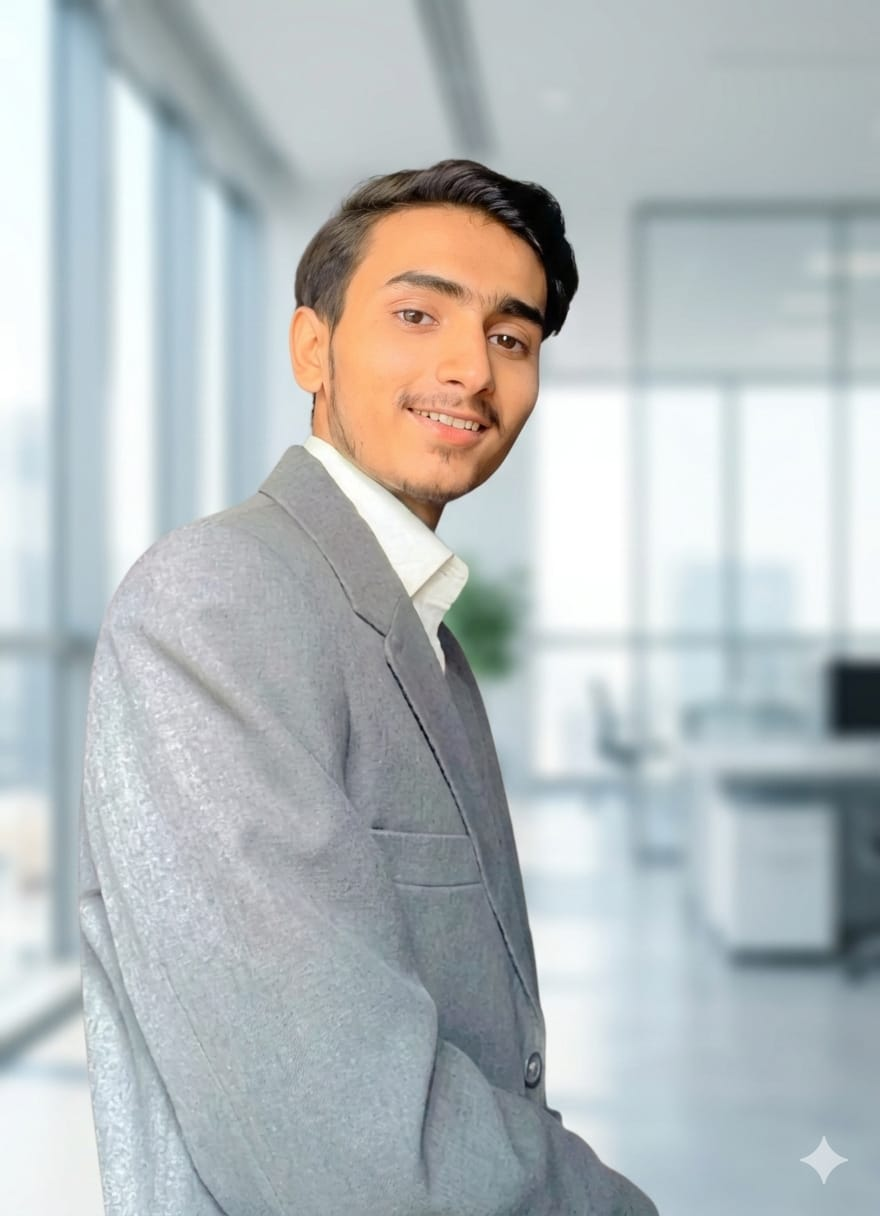
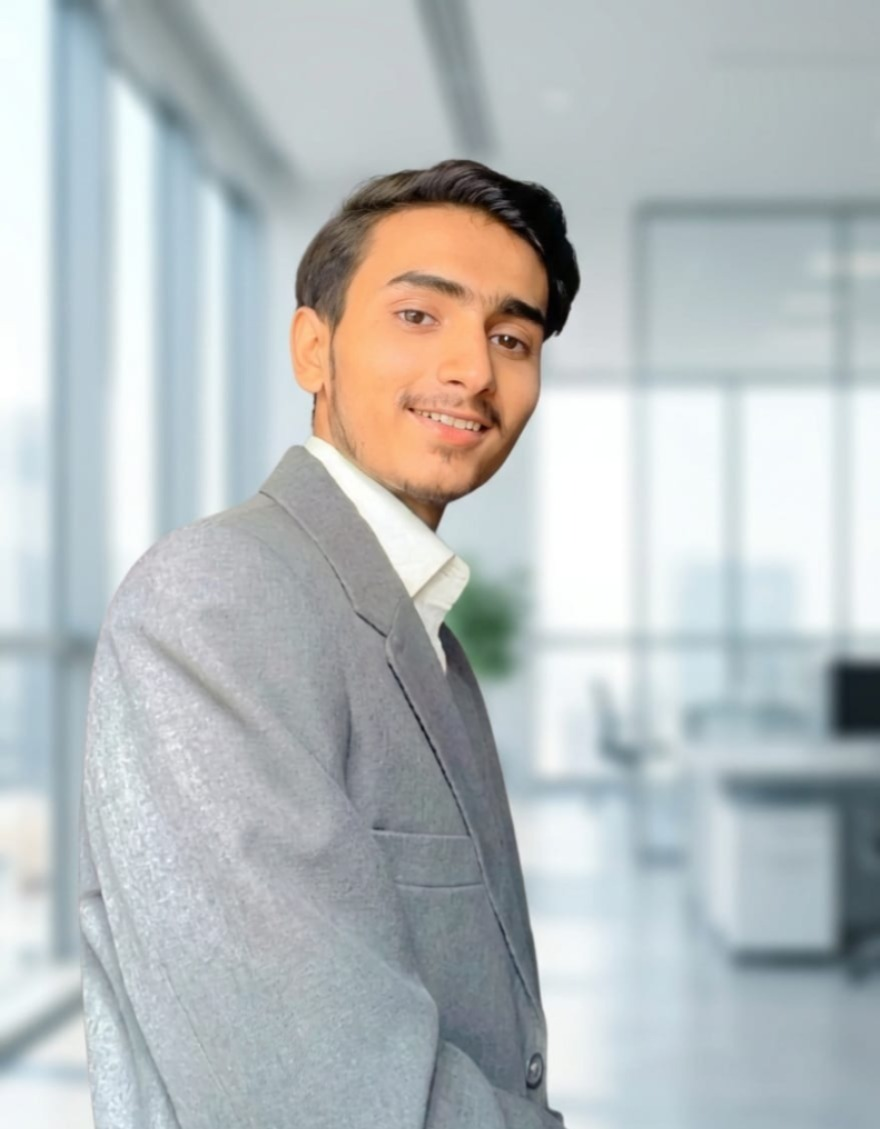
team changes

diff --git a/team.html b/team.html
@@ -325,13 +325,36 @@
           </div>
         </div>
       </div>
-<!-- Team Member 4: Abdul Rehman -->
+<!-- Team Member 3: Tehreem Fatima  -->
+<div class="team-member-card member-card reveal reveal-delay-3">
+  <div class="member-frame">
+    <div class="member-image-wrapper">
+      <img src="./images/tehreem fatima.jpeg" alt="Tehreem fatima" class="member-image">
+    </div>
+    <div class="member-badge">Digital Marketer</div>
+  </div>
+  
+  <div class="member-content">
+    <h3 class="member-name">Tehreem Fatima</h3>
+    <p class="member-title">Digital Marketer</p>
+    <p class="member-bio"></p>
+    
+    <div class="description-container">
+      <p class="member-description">
+        Tehreem Fatima is a results-driven Digital Marketer specializing in social media management, content strategy, and performance marketing. She focuses on creating engaging campaigns that help brands grow their online presence, attract the right audience, and convert leads into loyal customers. With a strong understanding of current market trends and digital platforms, she plays a key role in delivering impactful marketing solutions at Aurelia Agency.
+      </p>
+      <button class="see-more-btn">See More</button>
+    </div>
+
+  </div>
+</div>
+      <!-- Team Member 4: Abdul Rehman -->
       <div class="team-member-card member-card reveal reveal-delay-5">
         <div class="member-frame">
           <div class="member-image-wrapper">
             <img src="./images/abdul rehman.jpeg" alt="Abdul Rehman - Graphic Designer" class="member-image">
           </div>
-          <div class="member-badge">Developer</div>
+          <div class="member-badge">Graphics Designer</div>
         </div>
         
         <div class="member-content">
@@ -350,7 +373,7 @@
           </div>
         </div>
       </div>  
-      <!-- Team Member 3: Usama Ahmed -->
+      <!-- Team Member 5: Usama Ahmed -->
       <div class="team-member-card member-card reveal reveal-delay-3">
         <div class="member-frame">
           <div class="member-image-wrapper">
@@ -377,7 +400,7 @@
         </div>
       </div>
 
-      <!-- Team Member 4: Hassan Javed -->
+      <!-- Team Member 6: Hassan Javed -->
       <div class="team-member-card member-card reveal reveal-delay-4">
         <div class="member-frame">
           <div class="member-image-wrapper">
@@ -403,7 +426,7 @@
           </div>
         </div>
       </div>
-      <!-- Team Member 5: Umar Khan  -->
+      <!-- Team Member 7: Umar Khan  -->
 <div class="team-member-card member-card reveal reveal-delay-3">
   <div class="member-frame">
     <div class="member-image-wrapper">
@@ -423,10 +446,35 @@
       </p>
       <button class="see-more-btn">See More</button>
     </div>
-
   </div>
 </div>
-<!-- Team Member 7: -->
+<!-- Team Member 6: Hassan Javed -->
+      <div class="team-member-card member-card reveal reveal-delay-4">
+        <div class="member-frame">
+          <div class="member-image-wrapper">
+            <img src="./images/Wasi Mateen.jpeg" alt="Wasi Mateen - Full Stack Developer" class="member-image">
+          </div>
+          <div class="member-badge">Junior Digital Marketer</div>
+        </div>
+        
+        <div class="member-content">
+          <h3 class="member-name">Wasi Mateen</h3>
+          <p class="member-title">Junior Digital Marketer</p>
+          
+          <p class="member-bio">
+
+
+          </p>
+          
+          <div class="description-container">
+            <p class="member-description">
+              Wasi Mateen is a motivated Junior Digital Marketer with a growing expertise in social media marketing, content creation, and audience engagement. He supports campaign execution by assisting in content planning, trend research, and platform management. With a strong willingness to learn and adapt, Wasi is committed to developing effective digital strategies and contributing to the growth of clients’ online presence at Aurelia Agency.
+            </p>
+            <button class="see-more-btn">See More</button>
+          </div>
+        </div>
+      </div>
+<!-- Team Member 9: -->
       <div class="team-member-card member-card reveal reveal-delay-6">
         <div class="member-frame">
           <div class="member-image-wrapper">
@@ -600,6 +648,23 @@
   description: 'Umar Khan is a passionate Full-Stack Developer and AI enthusiast, skilled in building modern, scalable web applications and exploring intelligent solutions. He combines clean code with innovative thinking to deliver efficient, user-focused digital experiences.',
   links: []
 },
+'Tehreem Fatima': {
+  name: 'Tehreem Fatima',
+  title: 'Digital Marketer',
+  image: './images/tehreem fatima.jpeg',
+  bio: 'Results-driven Digital Marketer at Aurelia Agency.',
+  description: 'Tehreem Fatima is a results-driven Digital Marketer specializing in social media management, content strategy, and performance marketing. She focuses on creating engaging campaigns that help brands grow their online presence, attract the right audience, and convert leads into loyal customers.',
+  links: []
+},
+'Wasi Mateen': {
+  name: 'Wasi Mateen',
+  title: 'Junior Digital Marketer',
+  image: './images/Wasi Mateen.jpeg',
+  bio: 'Motivated Junior Digital Marketer at Aurelia Agency.',
+  description: 'Wasi Mateen is a motivated Junior Digital Marketer with a growing expertise in social media marketing, content creation, and audience engagement. He supports campaign execution by assisting in content planning, trend research, and platform management. With a strong willingness to learn and adapt, Wasi is committed to developing effective digital strategies and contributing to the growth of clients’ online presence at Aurelia Agency.',
+  links: []
+},
+  
 'Coming Soon...': {
   name: 'Coming Soon...',
   title: 'Freelancer',
